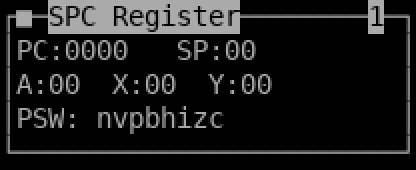
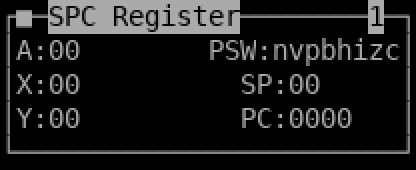
feat(drmon): rearrange SPC Register window to mirror 65816 layout
A/X/Y left column (x=3), PSW/SP/PC right column (x=17/18/18) — same
positions as P-flags/SP/PC in the 65816 Register window. Middle column
is empty (SPC700 has no D/DB/PB equivalents).

diff --git a/devsys/tools/drmon/spc_reg.cpp b/devsys/tools/drmon/spc_reg.cpp
@@ -42,23 +42,24 @@ enum SPCREGGAD
 };
 
 // window content (3 rows); values are PrintLay'd over the blanks after each label.
+// Layout mirrors the 65816 Register window: A/X/Y left, PSW/SP/PC right.
 static char spcRegText[] =
-"PC:       SP:\n"
-"A:    X:    Y:\n"
-"PSW:";
+"A:          PSW:\n"
+"X:            SP:\n"
+"Y:            PC:";
 
-#define SPCPC_X   4
-#define SPCPC_Y   1
-#define SPCSP_X   14
-#define SPCSP_Y   1
 #define SPCA_X    3
-#define SPCA_Y    2
-#define SPCX_X    9
+#define SPCA_Y    1
+#define SPCX_X    3
 #define SPCX_Y    2
-#define SPCY_X    15
-#define SPCY_Y    2
-#define SPCPSW_X  6
-#define SPCPSW_Y  3
+#define SPCY_X    3
+#define SPCY_Y    3
+#define SPCPSW_X  17
+#define SPCPSW_Y  1
+#define SPCSP_X   18
+#define SPCSP_Y   2
+#define SPCPC_X   18
+#define SPCPC_Y   3
 
 //=============================================================================
 
